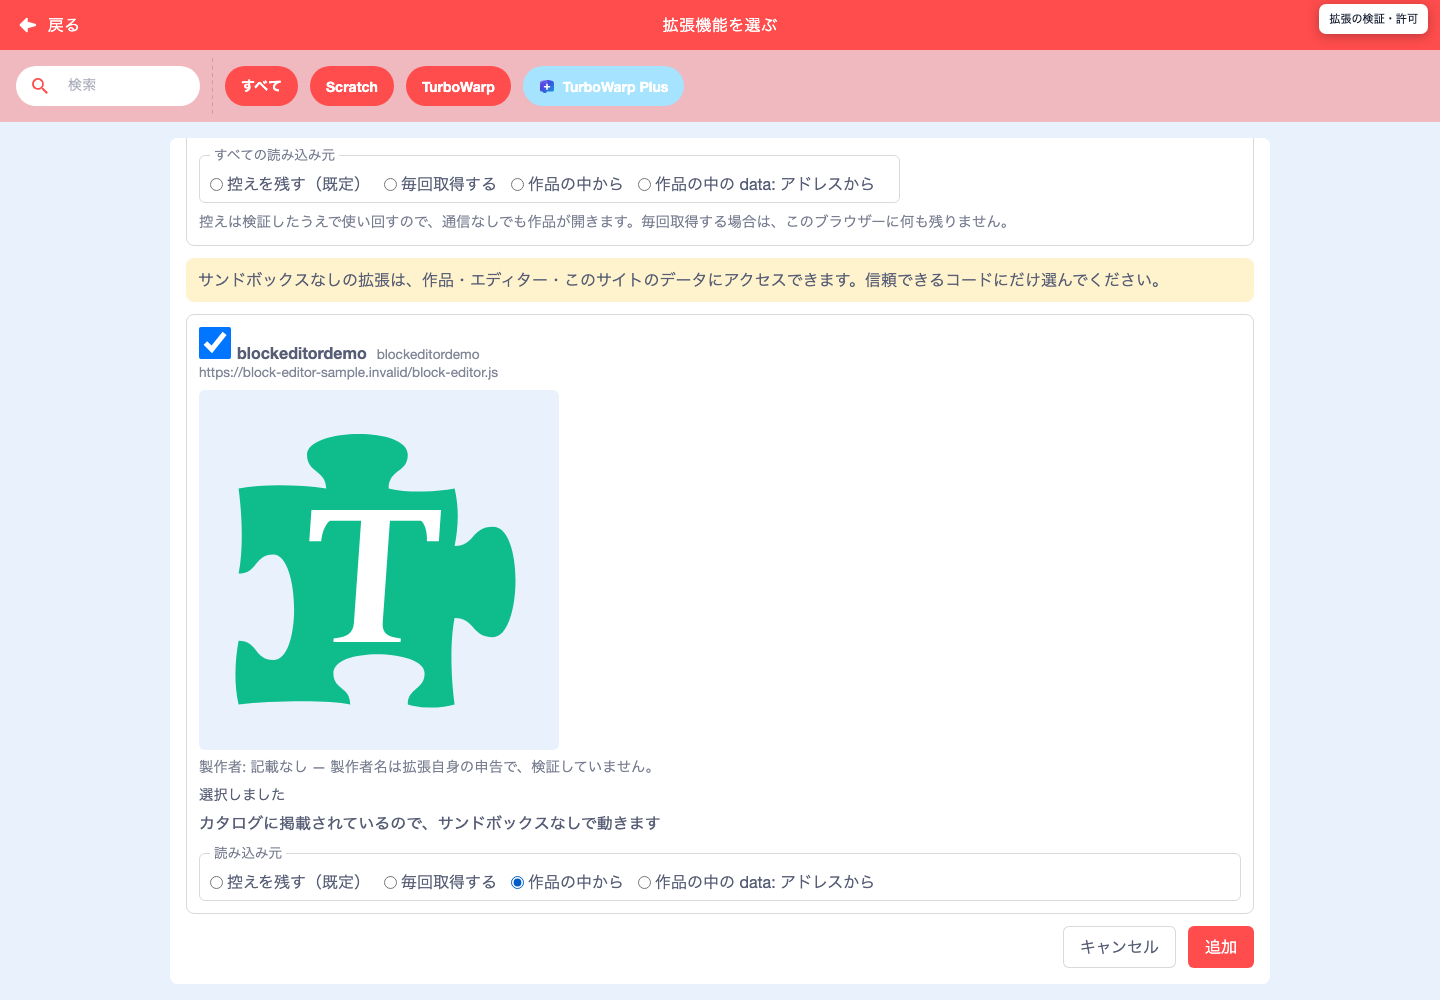
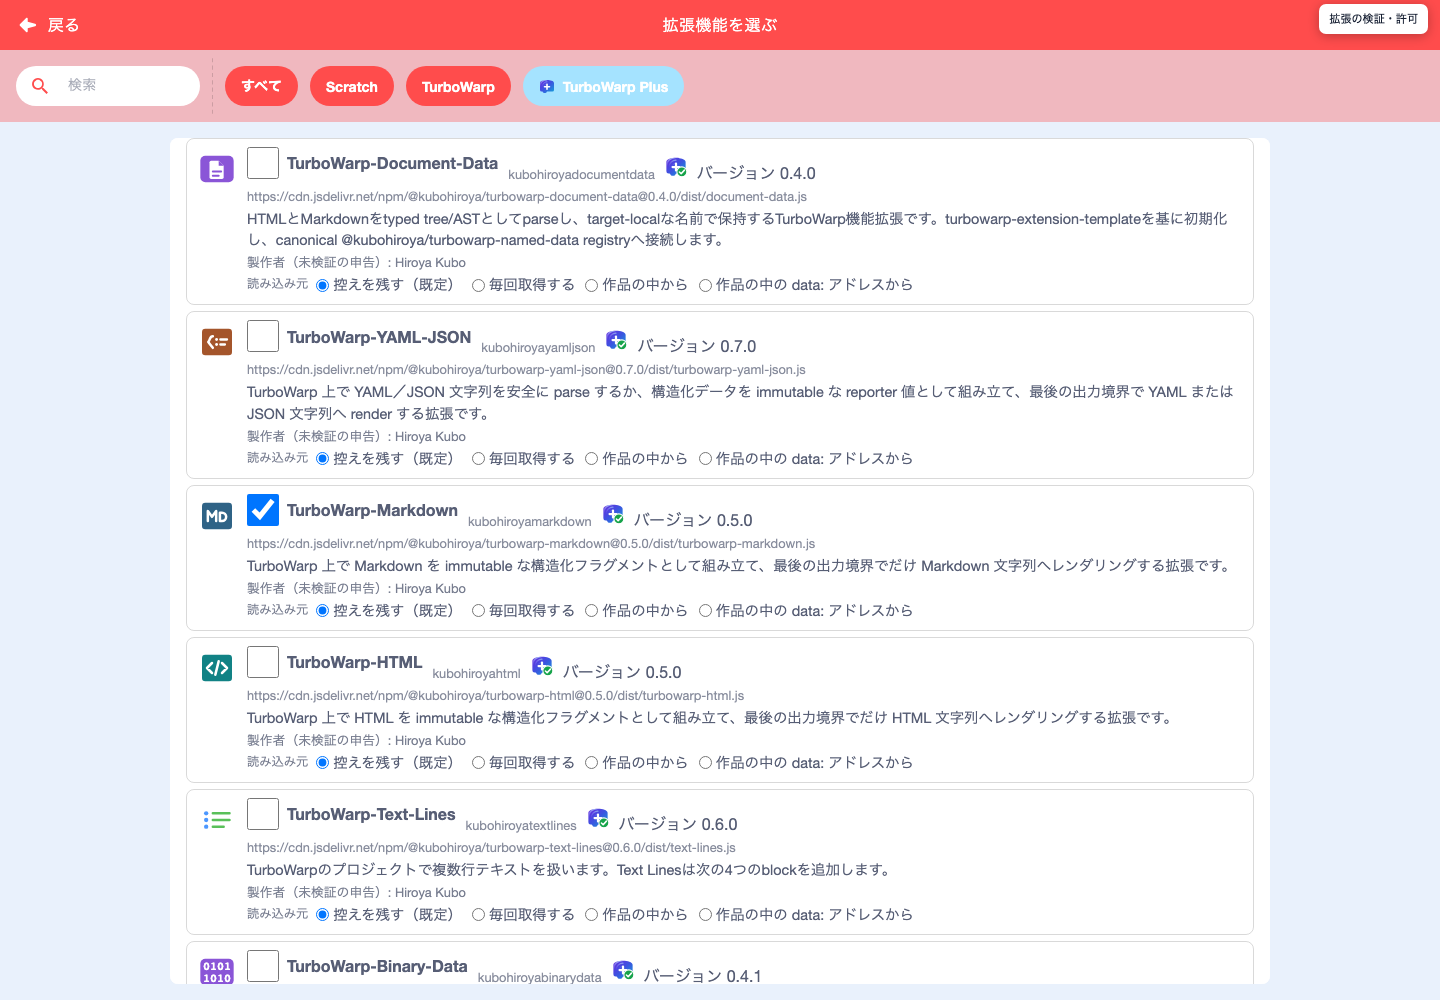
docs(features): 拡張の選択と確認の図版を、公開中の Editor で撮り直す
security-dialog 0.8.3 の表示（信頼の印、⚠ はサンドボックスなしが必要なものだけ、
アイコンでも選べる）を、公開中の Editor と公開カタログで撮った。図版の説明と
撮影の記録（capture.json）も合わせて直す。

diff --git a/docs/features/index.html b/docs/features/index.html
@@ -56,10 +56,10 @@
 <section id="extensions"><h2>3. 拡張を選び、実行する条件を確認する</h2>
 <h3>追加するとき：TurboWarp Plusの一覧</h3>
 <p>左下の「拡張機能を追加」→「TurboWarp Plus」を開きます。必要な拡張をチェックし、読込・保存方法を一括または個別に選んで「追加」を押します。必要な依存拡張も選ばれます。追加画面は通常の起動URLで利用できます。</p>
-<figure><a href="images/catalog.png"><img src="images/catalog.png" width="1440" height="1000" alt="TurboWarp Plus拡張の追加画面。サンプル拡張を選択し、SB3内ファイルとして読み込むラジオボタンを選んでいる。" loading="lazy"></a><figcaption>撮影用カタログにサンプル1件を載せた例。公開カタログの件数・内容を表す画像ではありません。カタログ掲載拡張の実行方法は表示され、読込方法を選べます。</figcaption></figure>
+<figure><a href="images/catalog.png"><img src="images/catalog.png" width="1440" height="1000" alt="TurboWarp Plus拡張の追加画面。公開中の一覧でTurboWarp-Markdownを選んでいる。各行に拡張のアイコン・名前・ID・版・説明・製作者と、TurboWarp Plusのロゴに緑のチェックを重ねた信頼の印、読込方法の選択肢が並ぶ。" loading="lazy"></a><figcaption>公開中の一覧で1件を選んだ例。チェックボックスのほか、拡張のアイコンを押しても選べます。名前の横の、TurboWarp Plusのロゴに緑のチェックを重ねた印は、このEditorが信頼する拡張であることを示します。安全を保証する印ではありません。</figcaption></figure>
 <h3>作品を開くとき：取得元と内容を確認</h3>
 <p>確認が必要な拡張を含む作品では、実行前に一覧を表示します。Plus形式と通常のカスタム拡張をまとめて確認し、動かすかどうか、サンドボックス内か外かを選びます。作品がサンドボックス外での実行を必要とし、その条件を許可しなければ、その作品は開きません。作者の指定がサンドボックス内なら、外での実行を選んでも内側で動きます。</p>
-<figure><a href="images/review.png"><img src="images/review.png" width="1440" height="1200" alt="作品を開く際の機能拡張の確認画面。サンプルのID、埋め込み取得元、SHA-256、動かさない・サンドボックス内・サンドボックスなしの選択肢が並ぶ。" loading="lazy"></a><figcaption>追加時のサンプルを、カタログに載っていない別の閲覧環境で開き直した例。拡張のID・取得元・SHA-256と実行方法を一画面で確認できます。</figcaption></figure>
+<figure><a href="images/review.png"><img src="images/review.png" width="1440" height="1200" alt="作品を開く際の機能拡張の確認画面。一覧にない2つの拡張について、名前・ID・取得元・説明・製作者と、動かさない・サンドボックス内・サンドボックスなしの選択肢が並ぶ。サンドボックスなしが必要と書いている拡張には、警告の記号とともにその旨が表示されている。" loading="lazy"></a><figcaption>一覧にない拡張を2つ含む作品を開いた例。拡張のID・取得元と実行方法を一画面で確認できます。サンドボックスなしが必要と書いている拡張には「⚠ サンドボックスなしが必要」と表示し、サンドボックスの中で動けるものには何も付けません。</figcaption></figure>
 <p>カタログ掲載の拡張は標準TurboWarpのギャラリーと同様に扱い、追加後に別の承認画面を重ねません。SHA-256は「同じ内容か」を確かめる値で、作者の本人性やコードの安全性を証明する値ではありません。「サンドボックスなし」はエディター側の権限で動くため、内容と提供元を確認して選びます。</p>
 <h3>取得に失敗したとき</h3>
 <p>拡張コードの取得が通信の問題で失敗したときは、一覧に「もう一度試す」が出ます。押すと、直前に選んだ読込・保存方法のまま取得し直します。内容のハッシュが合わない、配信元にない（404）、承認しなかった、など繰り返しても結果が変わらない失敗では、理由のコードとメッセージだけを表示し、やり直しは勧めません。</p>
